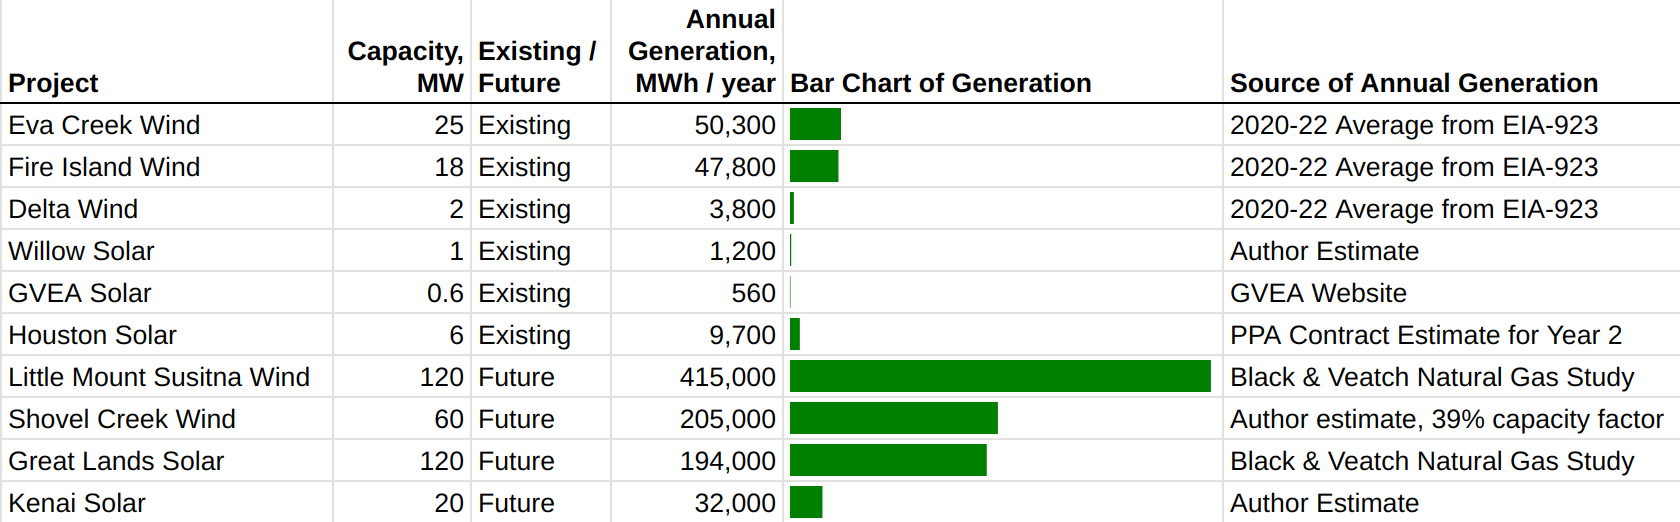
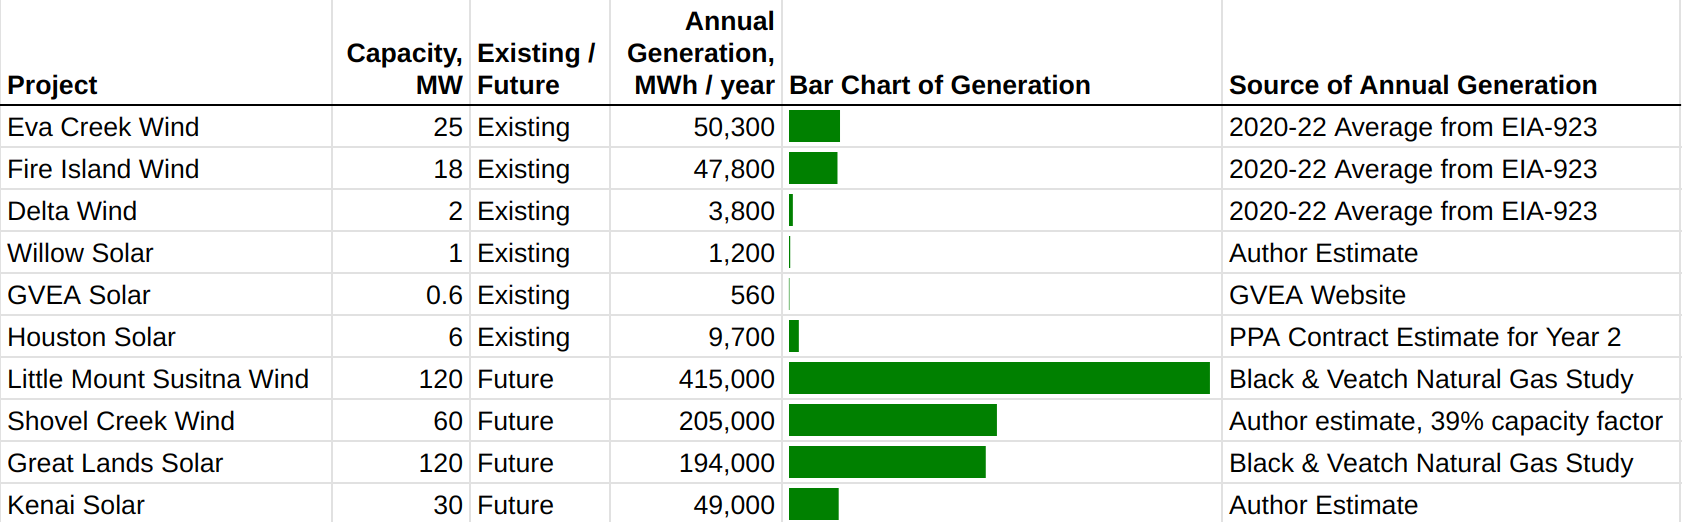
Removed footnotes, increased Kenai Solar to 30 MW.

Changed region(s): [[0.0, 0.0, 1.0, 1.0]]

diff --git a/_posts/2023-09-06-railbelt-behind.md b/_posts/2023-09-06-railbelt-behind.md
@@ -7,14 +7,14 @@ categories: railbelt wind solar
 
 *By Alan Mitchell*
 
-The cost of utility-scale solar has dropped 76% since 2010[^fn_solar_cost] and wind
-costs have dropped 45%.[^fn_wind_cost]  The improved cost-effectiveness of these technologies
+The cost of utility-scale [solar has dropped 76% since 2010](https://emp.lbl.gov/sites/default/files/utility_scale_solar_2022_edition_slides.pdf){:target="_blank"} and [wind
+costs have dropped 45%](https://emp.lbl.gov/sites/default/files/2023_lbwmr_final.pdf){:target="_blank"}. The improved cost-effectiveness of these technologies
 has spurred a rapid increase in the electricity generated from these technologies in
 the US.  But, how have we done in the Alaskan Railbelt as far as adoption of
 wind and solar?
 
 The graph below shows the percent of utility-scale electric energy generated
-from solar and wind both for the US as a whole and for the Railbelt.[^fn_wind_solar]
+from solar and wind both [for the US](https://www.eia.gov/electricity/data/browser/#/topic/0?agg=0,1&fuel=vtvo&geo=vvvvvvvvvvvvo&linechart=ELEC.GEN.ALL-US-99.A&columnchart=ELEC.GEN.ALL-US-99.A&map=ELEC.GEN.ALL-US-99.A&freq=A&ctype=linechart&ltype=pin&rtype=s&pin=&rse=0&maptype=0){:target="_blank"} as a whole and for the Railbelt.
 
 ![Wind/Solar Fractions in US and Alaska](/assets/images/behind/wind-solar-frac.png)
 
@@ -35,9 +35,9 @@ to see how wind and solar deployment might progress in both the Railbelt and the
 
 ![Wind/Solar Forecasts for US and Alaska](/assets/images/behind/wind-solar-forecast.png)
 
-Starting with the US figures, the EIA projects wind/solar fractions of 16% and 18% for
-2023 and 2024 respectively.[^fn_eia_fcst] The National Renewable Energy Laboratory estimates
-that fraction will increase to 40 - 62% by 2030.[^fn_nrel_fcst] (The graph above targets 47%
+Starting with the US figures, the [EIA projects wind/solar fractions](https://www.eia.gov/outlooks/steo/report/BTL/2023/02-genmix/article.php){:target="_blank"} of 16% and 18% for
+2023 and 2024 respectively. The National Renewable Energy Laboratory estimates
+that fraction will [increase to 40 - 62% by 2030](https://www.nrel.gov/docs/fy23osti/85242.pdf){:target="_blank"}. (The graph above targets 47%
 for 2030).  
 
 As for the Railbelt line on the graph, the projection assumes that most *all* of the
@@ -47,7 +47,7 @@ Solar project, as described in the [Black & Veatch Chugach Gas Supply Option and
 Market Assessment](https://drive.google.com/file/d/1TExipvMixwMAuBWqIHUhedfNNGLWGsKf/view){:target="_blank"}.
 Also included is the Golden Valley Electric Shovel Creek Wind project, assumed here to be
 built at the 60 MW capacity level.  Matanuska Electric's recently completed 6 MW Houston
-Solar project is included, as well as a 20 MW solar project being considered by Homer
+Solar project is included, as well as a 30 MW solar project being considered by Homer
 Electric.  All of these Railbelt wind/solar projects are being proposed by Independent
 Power Producers, hoping to sell power from projects to the above-mentioned utilities or
 sell the projects outright to the utilities.
@@ -63,15 +63,3 @@ Finally, the table below shows the energy contributions of each of the Railbelt 
 discussed above.
 
 ![Wind/Solar Projects](/assets/images/behind/wind-solar-table.png)
-
-&nbsp;
-
----
-
-&nbsp;
-
-[^fn_solar_cost]: [Utility-Scale Solar Briefing 2022, Lawrence Berkeley National Laboratory](https://emp.lbl.gov/sites/default/files/utility_scale_solar_2022_edition_slides.pdf){:target="_blank"}, page 18.
-[^fn_wind_cost]: [Land-Based Wind Market Report 2023, Lawrence Berkeley National Laboratory](https://emp.lbl.gov/sites/default/files/2023_lbwmr_final.pdf){:target="_blank"}, page 44.
-[^fn_wind_solar]: US data from the [EIA Electricity Data Browser](https://www.eia.gov/electricity/data/browser/#/topic/0?agg=0,1&fuel=vtvo&geo=vvvvvvvvvvvvo&linechart=ELEC.GEN.ALL-US-99.A&columnchart=ELEC.GEN.ALL-US-99.A&map=ELEC.GEN.ALL-US-99.A&freq=A&ctype=linechart&ltype=pin&rtype=s&pin=&rse=0&maptype=0){:target="_blank"}. Alaska data from [EIA Form 923](https://www.eia.gov/electricity/data/eia923/){:target="_blank"}.
-[^fn_eia_fcst]: [EIA Short-term Energy Outlook](https://www.eia.gov/outlooks/steo/report/BTL/2023/02-genmix/article.php){:target="_blank"}.
-[^fn_nrel_fcst]: [Evaluating Impacts of the Inflation Reduction Act and Bipartisan Infrastructure Law on the U.S. Power System, NREL](https://www.nrel.gov/docs/fy23osti/85242.pdf){:target="_blank"}, page v.
